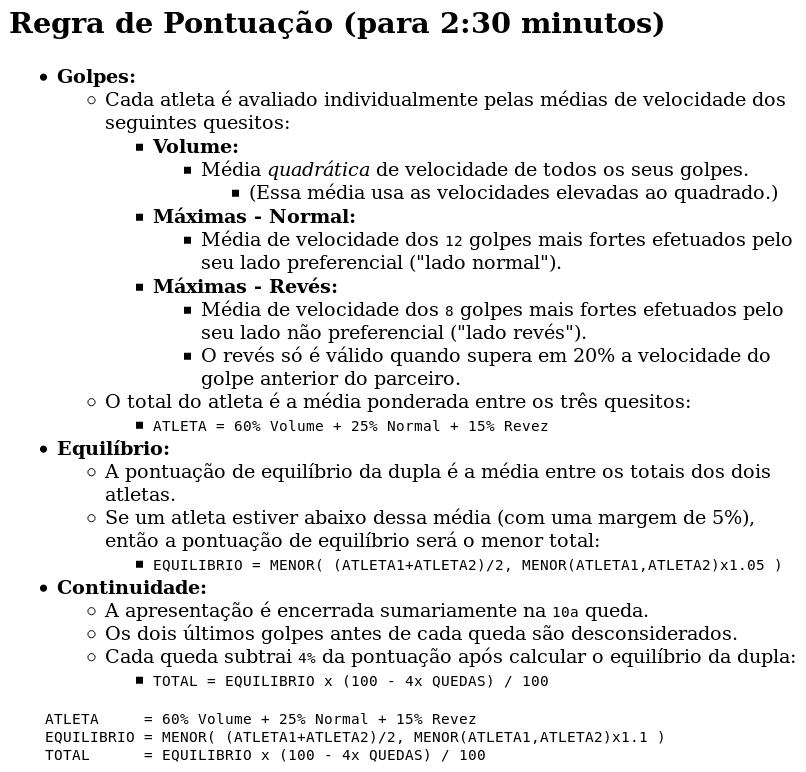
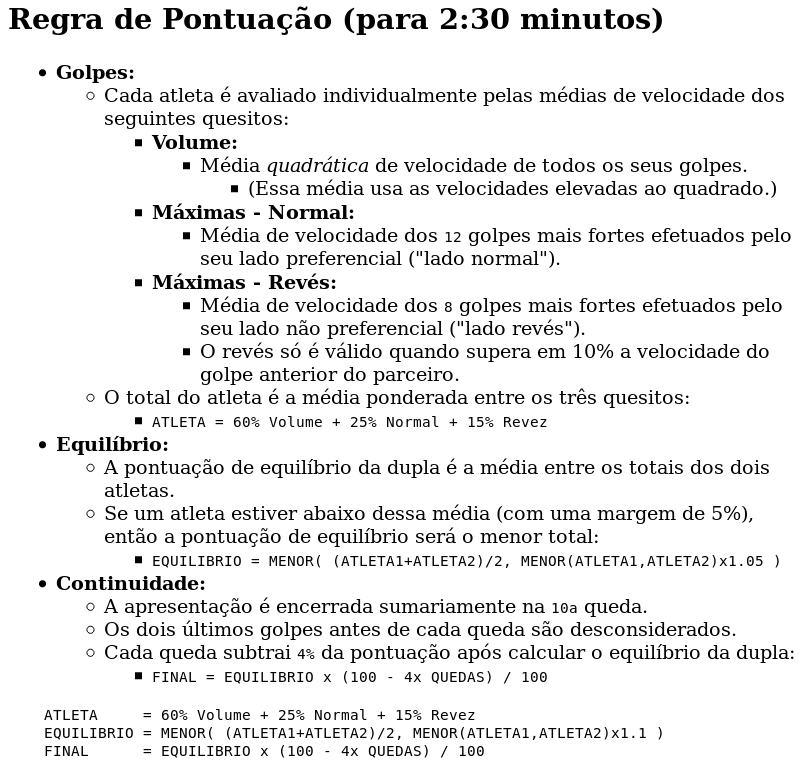
Revés 10% em vez de 20%.

Changed region(s): [[0.031, 0.0901, 0.9926, 0.9909], [0.0, 0.0, 0.8375, 0.0601]]

diff --git a/README.md b/README.md
@@ -53,7 +53,7 @@ ser usados, copiados e modificados livremente.**
         - **Máximas - Revés:**
             - Média de velocidade dos `16` golpes mais fortes efetuados pelo
               seu lado não preferencial ("lado revés").
-            - O revés só é válido quando supera em 20% a velocidade do golpe
+            - O revés só é válido quando supera em 10% a velocidade do golpe
               anterior do parceiro.
     - O total do atleta é a média ponderada entre os três quesitos:
         - `ATLETA = 60% Volume + 25% Normal + 15% Revez`
@@ -89,7 +89,7 @@ ser usados, copiados e modificados livremente.**
         - **Máximas - Revés:**
             - Média de velocidade dos `8` golpes mais fortes efetuados pelo
               seu lado não preferencial ("lado revés").
-            - O revés só é válido quando supera em 20% a velocidade do golpe
+            - O revés só é válido quando supera em 10% a velocidade do golpe
               anterior do parceiro.
     - O total do atleta é a média ponderada entre os três quesitos:
         - `ATLETA = 60% Volume + 25% Normal + 15% Revez`
